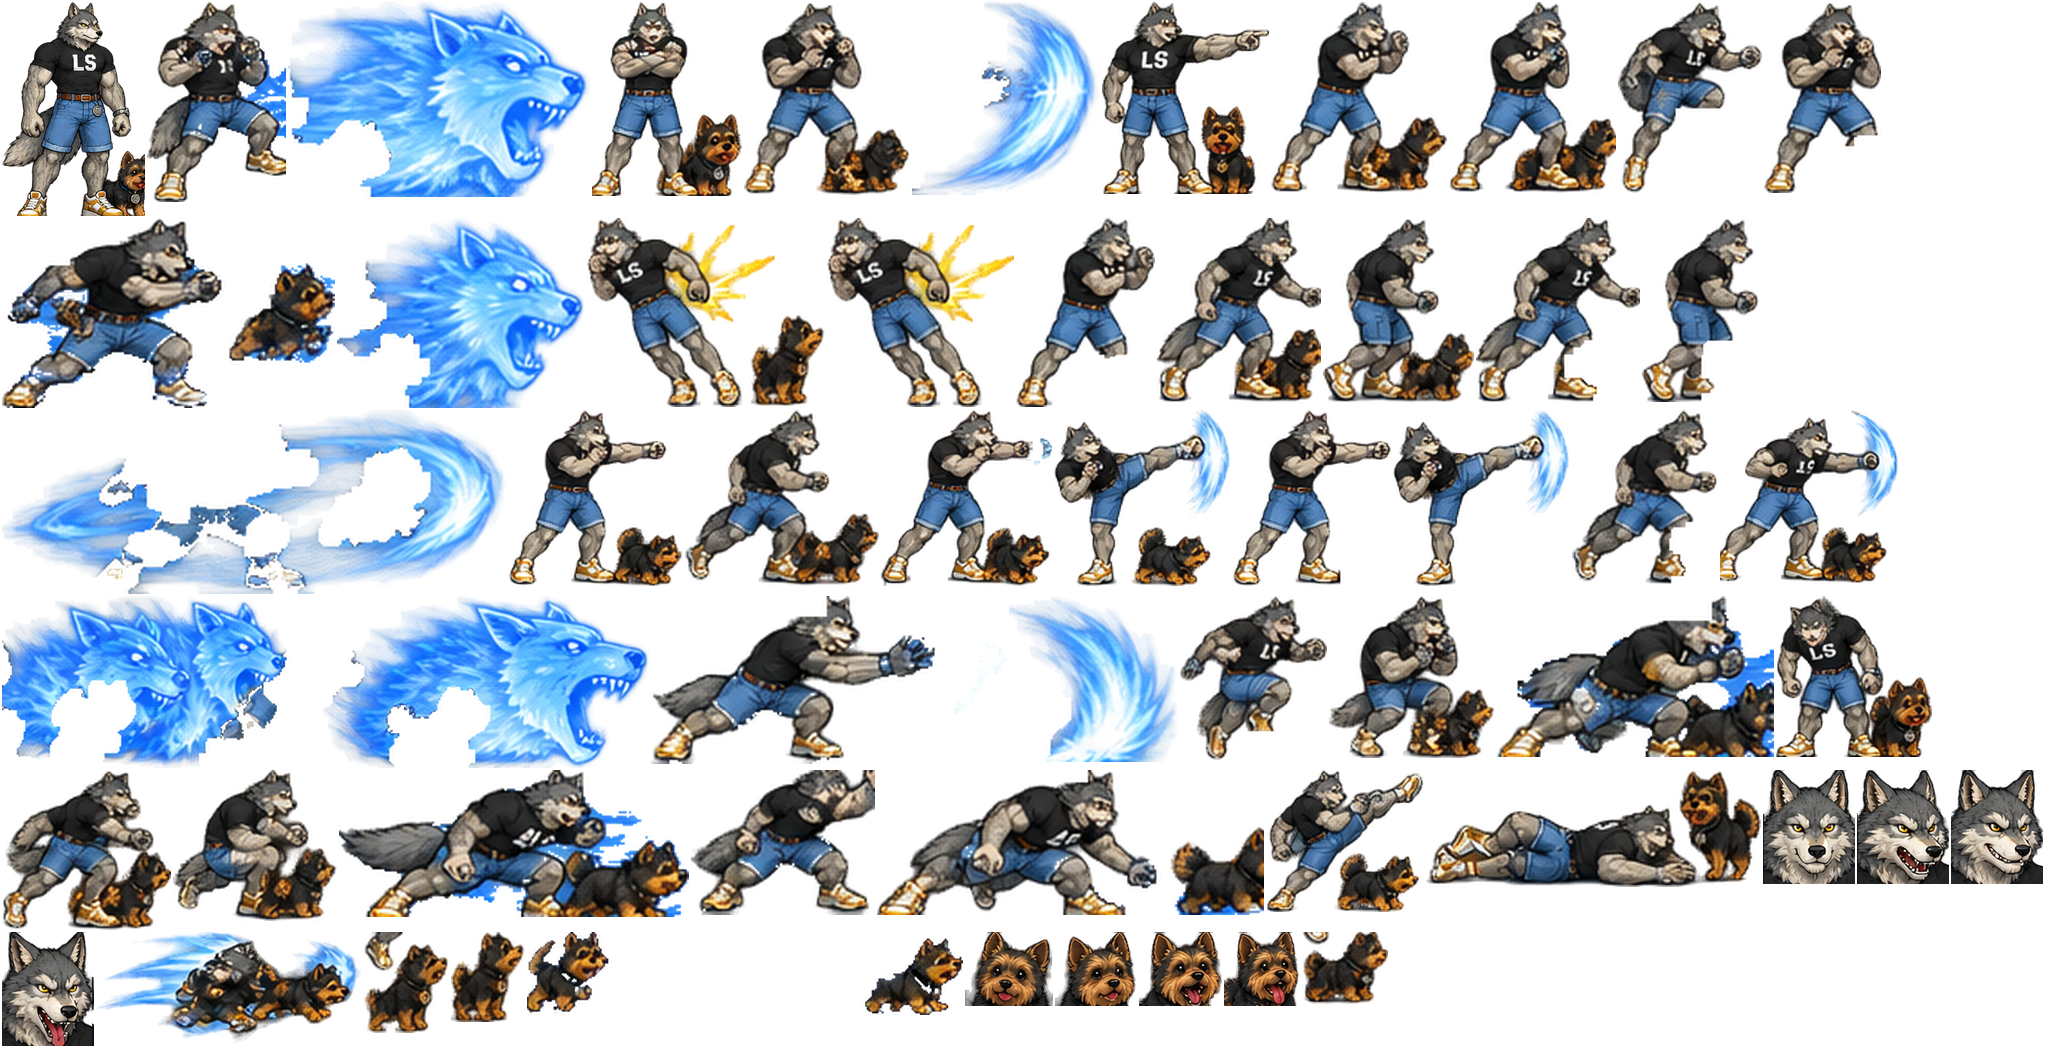
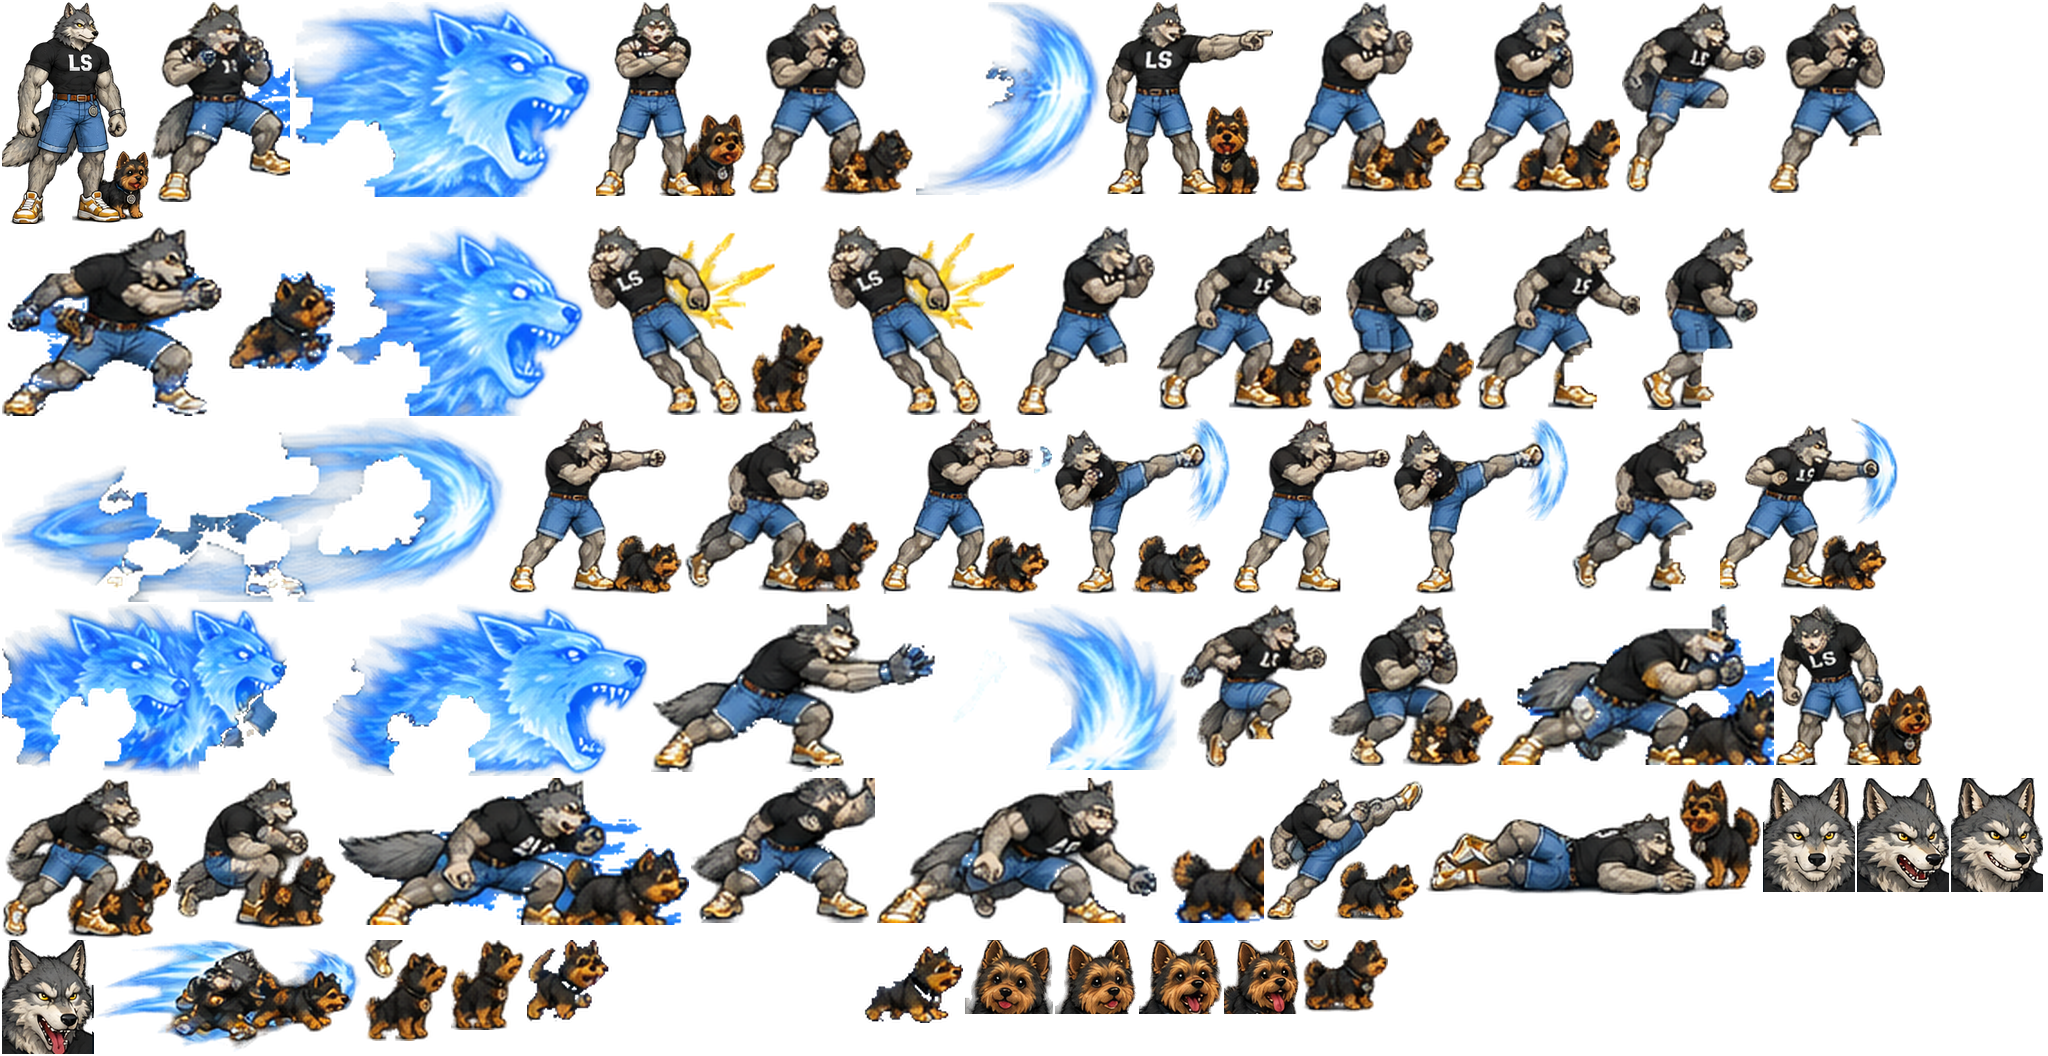
v0.5.4: card do Lobo com Yorkshire inteiro, assets versionados (?v=0.5.4), SW network-first p/ assets (cache bvf-v0.5-4)

Changed region(s): [[0.0, 0.0, 1.0, 0.9466]]

diff --git a/sw.js b/sw.js
@@ -1,6 +1,6 @@
-const CACHE = 'bvf-v0.5-3';
+const CACHE = 'bvf-v0.5-4';
 const FILES = ['./', 'index.html', 'style.css', 'manifest.webmanifest', 'js/audio.js', 'js/input.js', 'js/stage.js', 'js/fighters.js', 'js/game.js',
-  'assets/mukira/atlas.png', 'assets/mukira/atlas.json', 'assets/jogador/atlas.png', 'assets/jogador/atlas.json', 'assets/lobo/atlas.png', 'assets/lobo/atlas.json', 'assets/lobo/atlas_p2.png', 'assets/go/atlas.png', 'assets/go/atlas.json', 'icons/icon-192.png', 'icons/icon-512.png', 'icons/icon-180.png'];
+  'assets/mukira/atlas.png?v=0.5.4', 'assets/mukira/atlas.json?v=0.5.4', 'assets/jogador/atlas.png?v=0.5.4', 'assets/jogador/atlas.json?v=0.5.4', 'assets/lobo/atlas.png?v=0.5.4', 'assets/lobo/atlas.json?v=0.5.4', 'assets/lobo/atlas_p2.png?v=0.5.4', 'assets/go/atlas.png?v=0.5.4', 'assets/go/atlas.json?v=0.5.4', 'icons/icon-192.png', 'icons/icon-512.png', 'icons/icon-180.png'];
 self.addEventListener('install', e => { e.waitUntil(caches.open(CACHE).then(c => c.addAll(FILES)).then(() => self.skipWaiting())); });
 self.addEventListener('activate', e => { e.waitUntil(caches.keys().then(ks => Promise.all(ks.filter(k => k !== CACHE).map(k => caches.delete(k)))).then(() => self.clients.claim())); });
 self.addEventListener('fetch', e => {
@@ -8,9 +8,9 @@ self.addEventListener('fetch', e => {
   const url = new URL(e.request.url);
   const same = url.origin === location.origin;
   const put = res => { if (res.ok && same) { const cp = res.clone(); caches.open(CACHE).then(c => c.put(e.request, cp)); } return res; };
-  const netFirst = e.request.mode === 'navigate' || (same && /(\/|\.html|\.js|\.json|\.css|\.webmanifest)$/.test(url.pathname));
+  const netFirst = e.request.mode === 'navigate' || (same && (/(\/|\.html|\.js|\.json|\.css|\.webmanifest)$/.test(url.pathname) || url.pathname.includes('/assets/')));
   if (netFirst) {
-    e.respondWith(fetch(e.request, { cache: 'no-cache' }).then(put).catch(() => caches.match(e.request, { ignoreSearch: true }).then(r => r || caches.match('index.html'))));
+    e.respondWith(fetch(e.request, { cache: 'no-cache' }).then(put).catch(() => caches.match(e.request).then(r => r || caches.match(e.request, { ignoreSearch: true })).then(r => r || caches.match('index.html'))));
     return;
   }
   e.respondWith(caches.match(e.request, { ignoreSearch: true }).then(r => r || fetch(e.request).then(put)).catch(() => caches.match('index.html')));

diff --git a/js/fighters.js b/js/fighters.js
@@ -104,11 +104,12 @@ const CHARS = {
 
 // ---------- sprite assets ----------
 const Sprites = { ready: false };
+const ASSET_V = '0.5.4';
 function loadImage(src) { return new Promise((res, rej) => { const i = new Image(); i.onload = () => res(i); i.onerror = () => rej(new Error('img ' + src)); i.src = src; }); }
 async function loadSprites() {
   for (const id of ['mukira', 'jogador', 'lobo', 'go']) {
-    const [img, meta] = await Promise.all([loadImage(`assets/${id}/atlas.png`), fetch(`assets/${id}/atlas.json`).then(r => r.json())]);
-    const tint = id === 'lobo' ? await loadImage('assets/lobo/atlas_p2.png') : makeVariant(img, id, 'tint');
+    const [img, meta] = await Promise.all([loadImage(`assets/${id}/atlas.png?v=${ASSET_V}`), fetch(`assets/${id}/atlas.json?v=${ASSET_V}`).then(r => r.json())]);
+    const tint = id === 'lobo' ? await loadImage(`assets/lobo/atlas_p2.png?v=${ASSET_V}`) : makeVariant(img, id, 'tint');
     Sprites[id] = { img, meta: meta.anims, tint, white: makeVariant(img, id, 'white') };
   }
   Sprites.ready = true;

diff --git a/js/game.js b/js/game.js
@@ -576,7 +576,7 @@ G.debug = {
 };
 loadSprites().then(() => { go('title'); }).catch(e => { G.errors.push(String(e)); G.scene = 'loading'; console.error(e); });
 requestAnimationFrame(loop);
-const CACHE_TAG = 'bvf-v0.5-2';
+const CACHE_TAG = 'bvf-v0.5-4';
 if ('serviceWorker' in navigator && (location.protocol === 'https:' || location.hostname === 'localhost') && !qs.has('nosw')) {
   const hadCtl = !!navigator.serviceWorker.controller; let reloaded = false;
   navigator.serviceWorker.addEventListener('controllerchange', () => {
